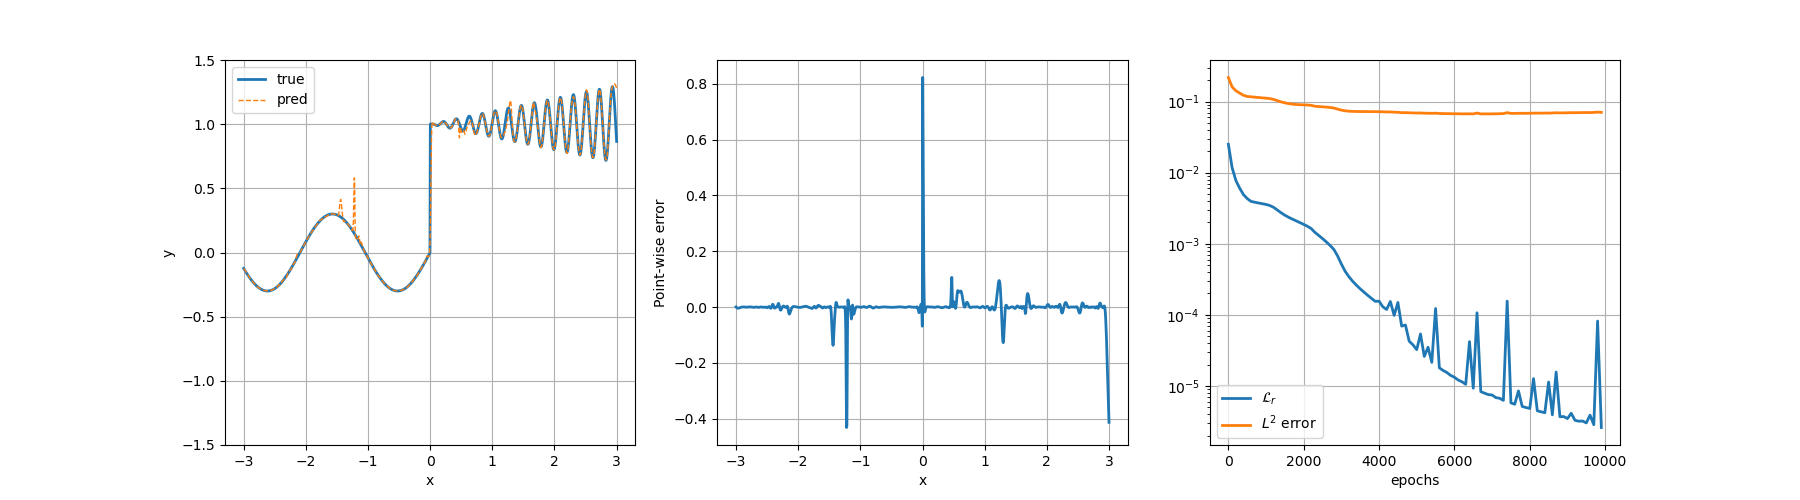
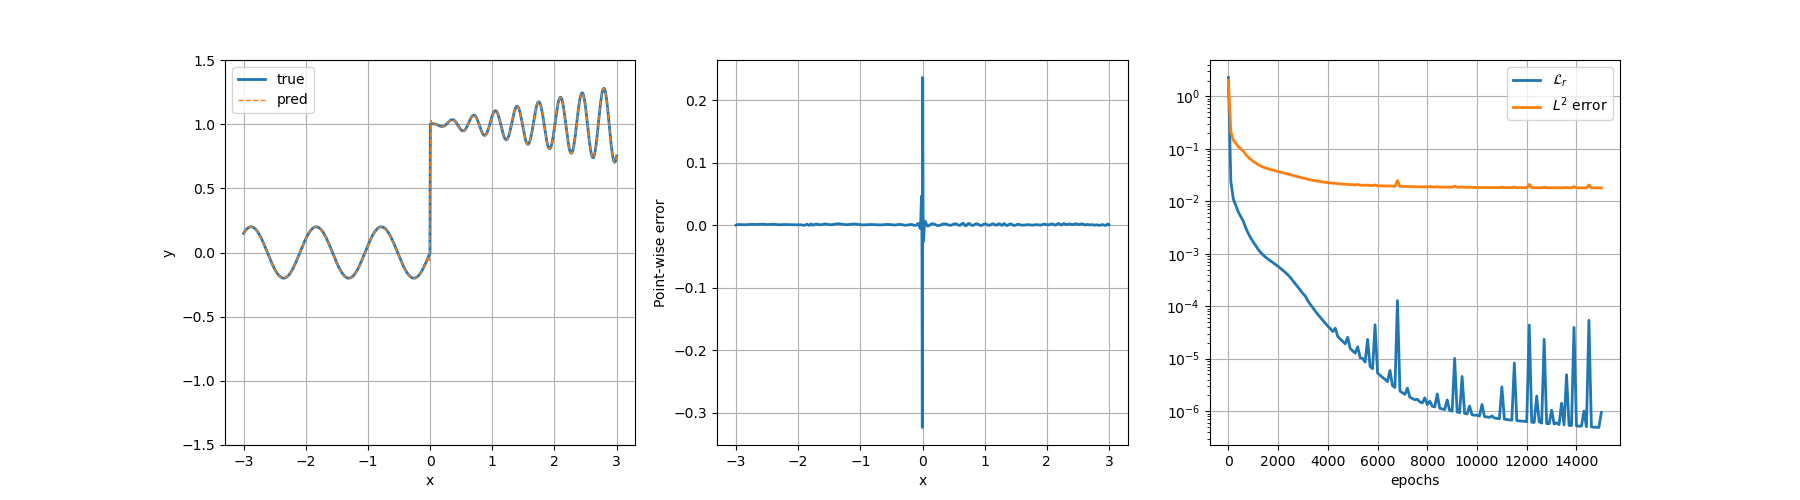
plot adaptive activation ntk

diff --git a/NonlinearDiscontinuous/FF_ntk_AdaptiveActivation.py b/NonlinearDiscontinuous/FF_ntk_AdaptiveActivation.py
@@ -133,21 +133,21 @@ if __name__ == '__main__':
     # Hyperparameters
     # adaptive_activation = 'GAAF'
     # adaptive_activation = 'L-LAAF'
-    # adaptive_activation = 'N-LAAF'
-    adaptive_activation = 'NONE'
+    adaptive_activation = 'N-LAAF'
+    # adaptive_activation = 'NONE'
     is_fourier_layer_trainable = True
     is_compute_ntk = True
     sigma = 1
     scaling_factor = 10
     lr = 2e-4
     lr_n = 10
-    layer_sizes = [1] + [100] + [100] * 3 + [1]
+    layer_sizes = [1] + [50] + [50] * 3 + [1]
     train_size = 300
-    epochs = 10000
+    epochs = 15000
 
     # Exact solution
     def u(x):
-        return 0.3*sin(3*x) if x <= 0 else 1+0.1*x*cos(30*x)
+        return 0.2*sin(6*x) if x <= 0 else 1+0.1*x*cos(18*x)
         
     # Training data
     x_train = (torch.linspace(-3, 3, train_size)).unsqueeze(-1).to(device)
@@ -185,7 +185,7 @@ if __name__ == '__main__':
     # Logger
     loss_res_log = []
     l2_error_log = []
-    K_rr_log = []
+    K_log = []
     A1_log = []
 
     # Train
@@ -233,9 +233,9 @@ if __name__ == '__main__':
                 fnet, params = make_functional(net)
                 # spectrum = empirical_ntk(fnet_single, params, x_train, x_train, 'trace')
 
-                J_r = compute_jac(net_r, params, x_train)
-                K_rr_value = compute_ntk(J_r, J_r, 'full').detach().cpu().numpy()
-                K_rr_log.append(K_rr_value)
+                J_r = compute_jac(net_u, params, x_train)
+                K_value = compute_ntk(J_r, J_r, 'full').detach().cpu().numpy()
+                K_log.append(K_value)
             
             start_time = time.time()
             scheduler.step()
@@ -251,8 +251,6 @@ if __name__ == '__main__':
     ax1.legend()
     ax1.grid(True)
 
-    # ax2.ticklabel_format(style='sci', scilimits=(0, 0), axis='y')
-    plt.yscale('log')
     ax2.plot(x_test.detach().cpu().numpy(), y_test.detach().cpu().numpy() - net(x_test).detach().cpu().numpy(), linewidth=2)
     ax2.set_xlabel('x')
     ax2.set_ylabel('Point-wise error')
@@ -270,7 +268,7 @@ if __name__ == '__main__':
     if is_compute_ntk:
         # Create loggers for the eigenvalues of the NTK
         lambda_K_log = []
-        for K in K_rr_log:
+        for K in K_log:
             # Compute eigenvalues
             lambda_K, eigvec_K = np.linalg.eig(K)
             
@@ -279,17 +277,29 @@ if __name__ == '__main__':
             
             # Store eigenvalues
             lambda_K_log.append(lambda_K)
+        
+
+        # Change of the NTK
+        NTK_change_list = []
+        K0 = K_log[0]
+        for K in K_log:
+            diff = np.linalg.norm(K - K0) / np.linalg.norm(K0) 
+            NTK_change_list.append(diff)
 
         # Eigenvalues of NTK
-        fig, ax = plt.subplots(figsize=(6, 5))
-        ax.plot(lambda_K_log[0], label = 'n=10')
-        ax.plot(lambda_K_log[-1], '--', label = f'n={epochs}')
-        plt.xscale('log')
-        plt.yscale('log')
-        ax.set_xlabel('index')
-        ax.set_ylabel(r'$\lambda_{rr}$')
-        ax.set_title(r'Eigenvalues of ${K}_{rr}$')
-        ax.legend()
+        fig, (ax1, ax2) = plt.subplots(1, 2, figsize=(12, 5))
+        ax1.plot(lambda_K_log[0], label = 'n=10')
+        ax1.plot(lambda_K_log[-1], '--', label = f'n={epochs}')
+        ax1.set_xscale('log')
+        ax1.set_yscale('log')
+        ax1.set_xlabel('index')
+        ax1.set_ylabel(r'$\lambda$')
+        ax1.set_title(r'Eigenvalues of ${K}$')
+        ax1.legend()
+
+        ax2.plot(NTK_change_list)
+        ax2.set_title('Change of the NTK')
+        # fig.savefig('./NonlinearDiscontinuous/plot/s{:d}_lr{:d}_{:s}_NTK'.format(sigma, lr_n, adaptive_activation))
         plt.show()
 
         # Visualize the eigenvectors of the NTK
@@ -309,13 +319,3 @@ if __name__ == '__main__':
         # ax.legend()
         # ax.grid(True)
         # plt.show()
-        # Change of the NTK
-        NTK_change_list = []
-        K0 = K_rr_log[0]
-        for K in K_rr_log:
-            diff = np.linalg.norm(K - K0) / np.linalg.norm(K0) 
-            NTK_change_list.append(diff)
-        fig, ax = plt.subplots(figsize=(6,5))
-        ax.plot(NTK_change_list)
-        ax.set_title('Change of the NTK')
-        plt.show()

diff --git a/Poisson_1D/FF_ntk.py b/Poisson_1D/FF_ntk.py
@@ -124,7 +124,7 @@ if __name__ == '__main__':
     # Hyperparameters
     is_fourier_layer_trainable = True
     is_compute_ntk = True
-    sigma = 10
+    sigma = 1
     lr = 1e-3
     lr_n = 10
     layer_sizes = [1] + [100] * 4 + [1]
